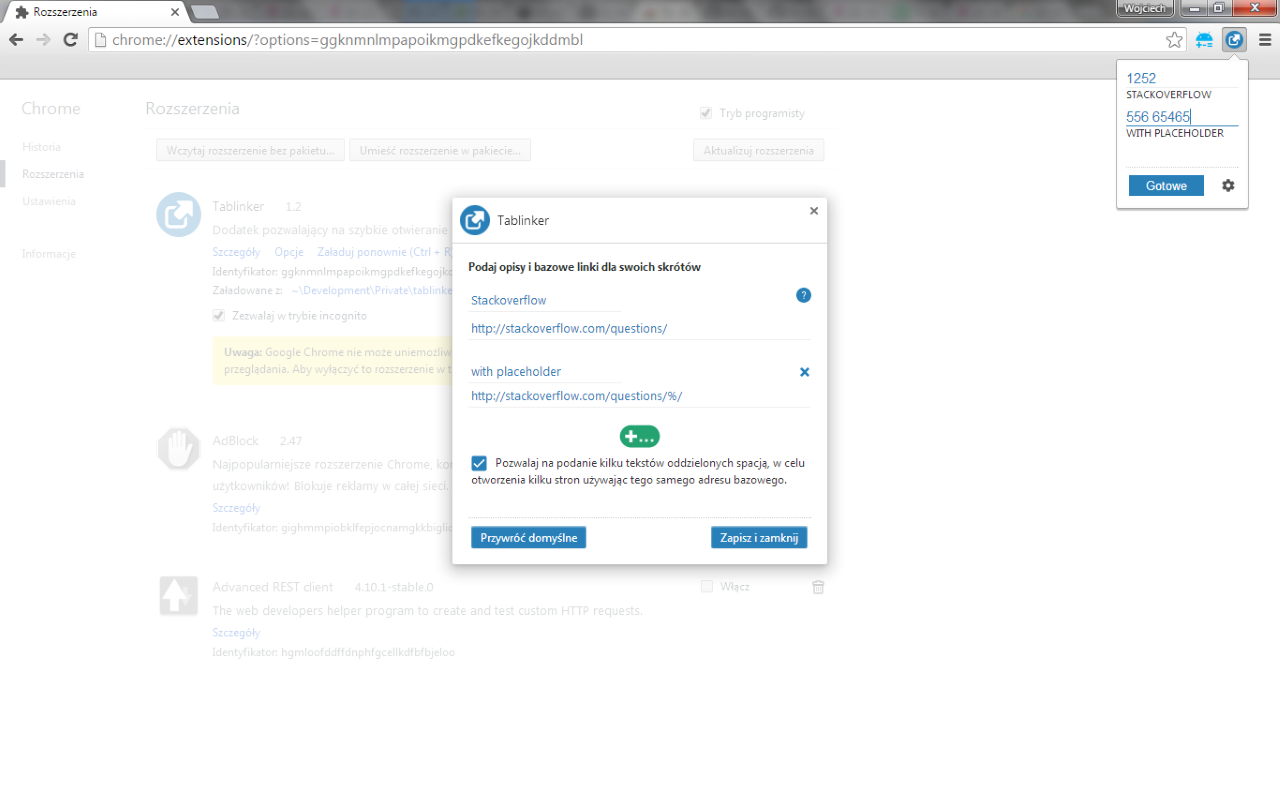
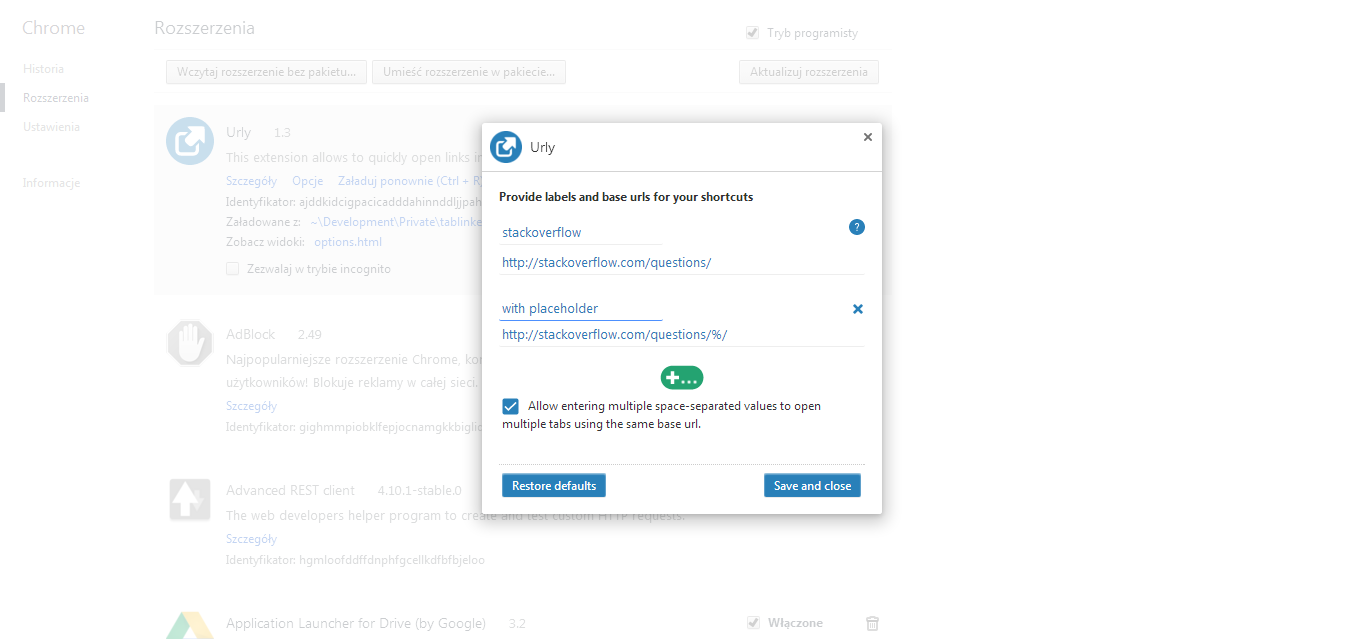
Changing repo name and old name references.

diff --git a/Urly/options.html b/Urly/options.html
@@ -19,7 +19,7 @@
 			<li id="help_url_explanation_1"></li>
 			<li id="help_url_explanation_2"></li><br><br>
 			
-			<span id="help_github_footer"></span><a href="http://wojciechplesiak.github.io/tablinker-chrome-extension/" id="help_github_line"></a>
+			<span id="help_github_footer"></span><a href="http://wojciechplesiak.github.io/urly-web-extension/" id="help_github_line"></a>
 		</div>
 		<div id="mainDiv">
 			<p><b id="options_description"></b></p>

diff --git a/README.md b/README.md
@@ -2,24 +2,25 @@
 A Google Chrome Extension used to easily open links with page indicators/ticket number in a new tab.
 
 # Configuration
-1. Install this Extension from Chrome WebStore
+1. Install this Extension from (Chrome WebStore](https://chrome.google.com/webstore/detail/tablinker/dciojklibcmcjpfchhelbeaognffhibi)
 2. Configure it by adding base URL and a label
 3. Type what needs to be replaced in base URL or added at the end and press Enter (or "Go")
 4. New tab will be opened on that link
 
 # Screenshots
-![Options](screenshots/options.jpg)
+![Options](screenshots/options.png)
 
 You can define multiple base urls. In that way you will get multiple entry text fields on a popup and you will be able to open several tabs with different webpages. In this example two base urls are set. Both point to Stack Overflow page and show two ways of defining base links:
+
 1. in first one your input would be appended at the end
 2. in second one your input will replace placeholder ' % ' 
 
-![Popup](screenshots/popup.jpg)
+![Popup](screenshots/popup.png)
 
 Entering text and pressing Enter or "Go" will open new tab. In this example 3 tabs will be opened. First input opens one tab, and second input will be split on space into two separate entries and will be displayed on two separate tabs.
 
 # Changelog
-Please see the [Changelog](https://github.com/wojciechplesiak/tablinker-chrome-extension/wiki/Changelog) page to see what's recently changed.
+Please see the [Changelog](https://github.com/wojciechplesiak/urly-web-extension/wiki/Changelog) page to see what's recently changed.
 
 # License
 ```
